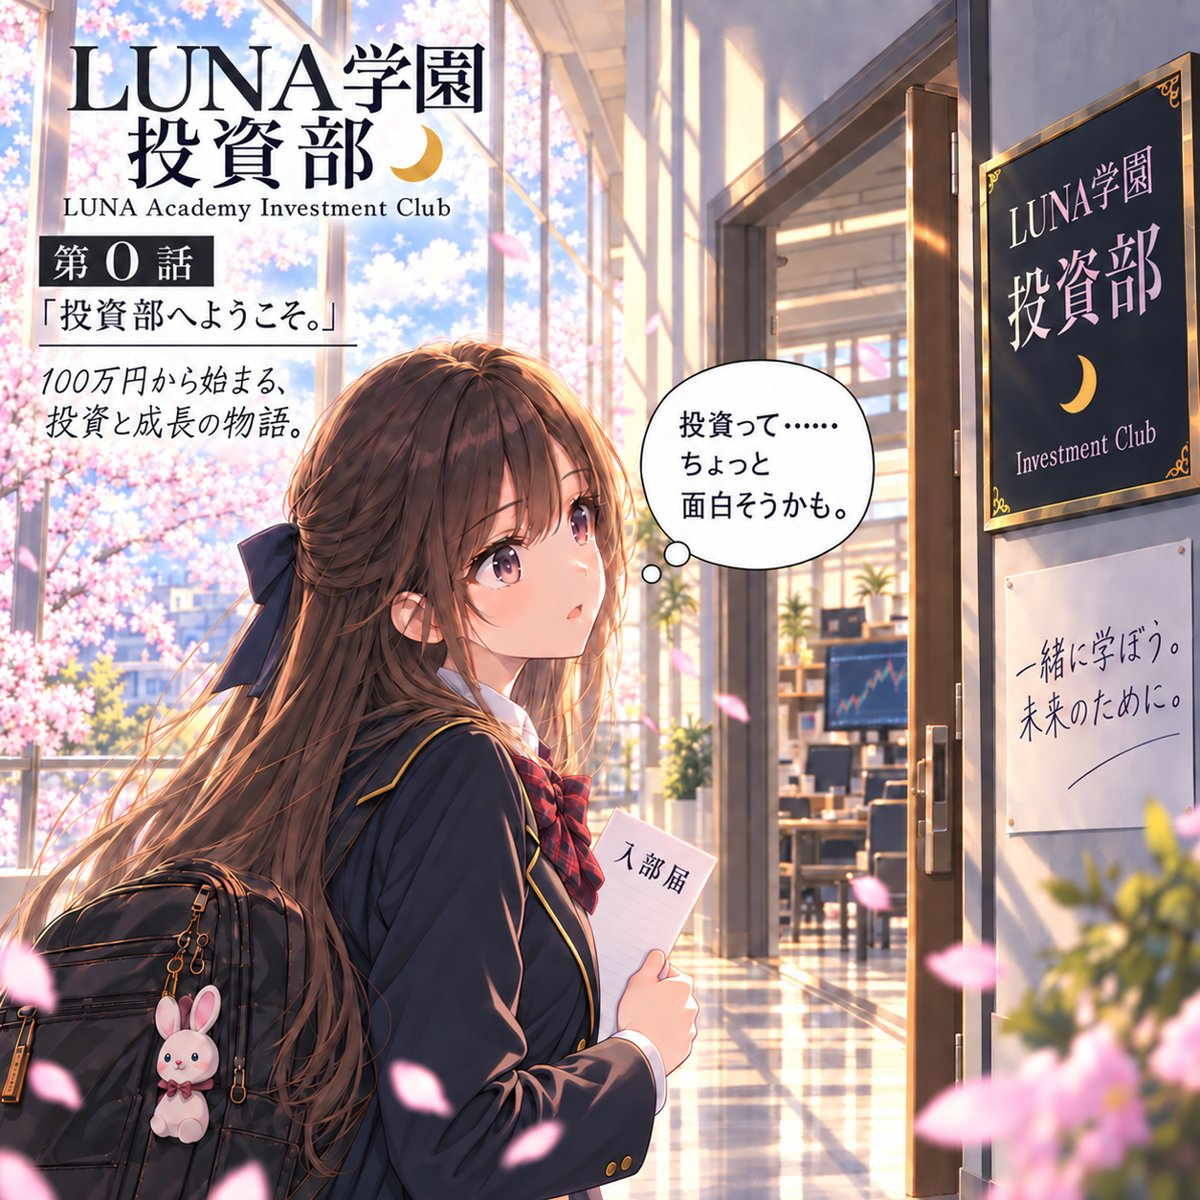
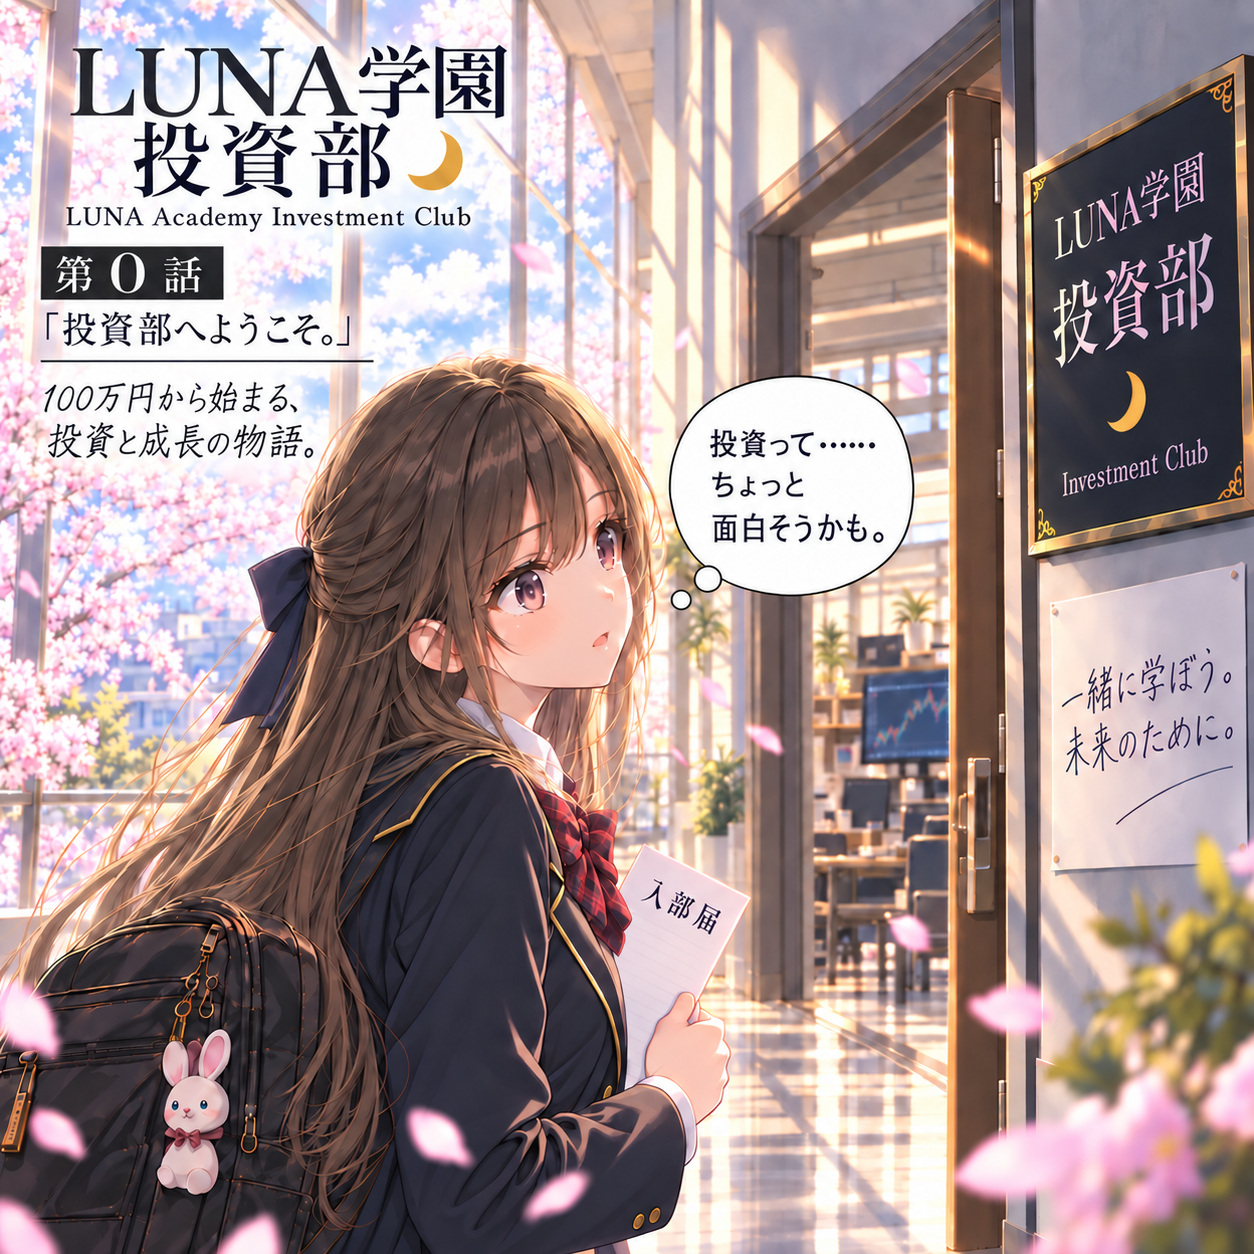
第0話を承認済みの完成版に差し替え

diff --git a/ep000.html b/ep000.html
@@ -61,10 +61,10 @@ h1{font-family:var(--display);font-weight:900;color:var(--navy);font-size:clamp(
   </header>
 
   <ol class="pages">
-    <li><img src="manga/ep000_01.jpg" alt="第0話 1ページ目。桜の窓辺で、入部届を持ったルナが投資部の扉の前に立つ。「投資って……ちょっと面白そうかも。」" width="1200" height="1200"><span class="pg">1 / 4</span></li>
-    <li><img src="manga/ep000_02.jpg" alt="第0話 2ページ目。扉を開けると顧問のセリナ先生が「待ってたわ、月城さん。」" width="1200" height="1200" loading="lazy"><span class="pg">2 / 4</span></li>
-    <li><img src="manga/ep000_03.jpg" alt="第0話 3ページ目。先生がルナの手に投資部のしるしを渡す。" width="1200" height="1200" loading="lazy"><span class="pg">3 / 4</span></li>
-    <li><img src="manga/ep000_04.jpg" alt="第0話 4ページ目。「まずは100万円から、始めましょう。」「ひゃ、100万円〜っ!?」" width="1200" height="1200" loading="lazy"><span class="pg">4 / 4</span></li>
+    <li><img src="manga/ep000_01.jpg?v=98f8bb132b" alt="第0話 1ページ目。桜の窓辺で、入部届を持ったルナが投資部の扉の前に立つ。「投資って……ちょっと面白そうかも。」" width="1254" height="1254"><span class="pg">1 / 4</span></li>
+    <li><img src="manga/ep000_02.jpg?v=3b3edc0cdf" alt="第0話 2ページ目。扉を開けると顧問のセリナ先生が「待ってたわ、月城さん。」" width="1254" height="1254" loading="lazy"><span class="pg">2 / 4</span></li>
+    <li><img src="manga/ep000_03.jpg?v=42b14571e1" alt="第0話 3ページ目。セリナ先生が、箱に入った月のアクセサリーをルナに見せる。" width="1254" height="1254" loading="lazy"><span class="pg">3 / 4</span></li>
+    <li><img src="manga/ep000_04.jpg?v=9b3334dab1" alt="第0話 4ページ目。「まずは100万円から、始めましょう。」「ひゃ、100万円〜っ!?」" width="1254" height="1254" loading="lazy"><span class="pg">4 / 4</span></li>
   </ol>
 
   <section class="end" aria-labelledby="h-end">

diff --git a/index.html b/index.html
@@ -354,7 +354,7 @@ img{-webkit-user-drag:none;user-select:none;-webkit-touch-callout:none}
     </div>
     <div class="photos">
       <figure class="pol back paper">
-        <img src="img/cover_ep000.jpg" alt="投資部の扉の前に立つルナ。第0話のとびら絵" width="640" height="640">
+        <img src="img/cover_ep000.jpg?v=9983854d26" alt="投資部の扉の前に立つルナ。第0話のとびら絵" width="640" height="640">
         <figcaption class="cap">第0話・はじまりの日</figcaption>
       </figure>
       <figure class="pol front paper">
@@ -396,7 +396,7 @@ img{-webkit-user-drag:none;user-select:none;-webkit-touch-callout:none}
     <div class="manga">
       <a class="feature paper" href="ep000.html">
         <span class="tape b"></span>
-        <img src="img/cover_ep000.jpg" alt="第0話のとびら絵。投資部の扉の前で、入部届を持つルナ" width="640" height="640" loading="lazy">
+        <img src="img/cover_ep000.jpg?v=9983854d26" alt="第0話のとびら絵。投資部の扉の前で、入部届を持つルナ" width="640" height="640" loading="lazy">
         <div class="in">
           <span class="no en">Episode 0</span>
           <h3>第0話「投資部へようこそ。」</h3>
